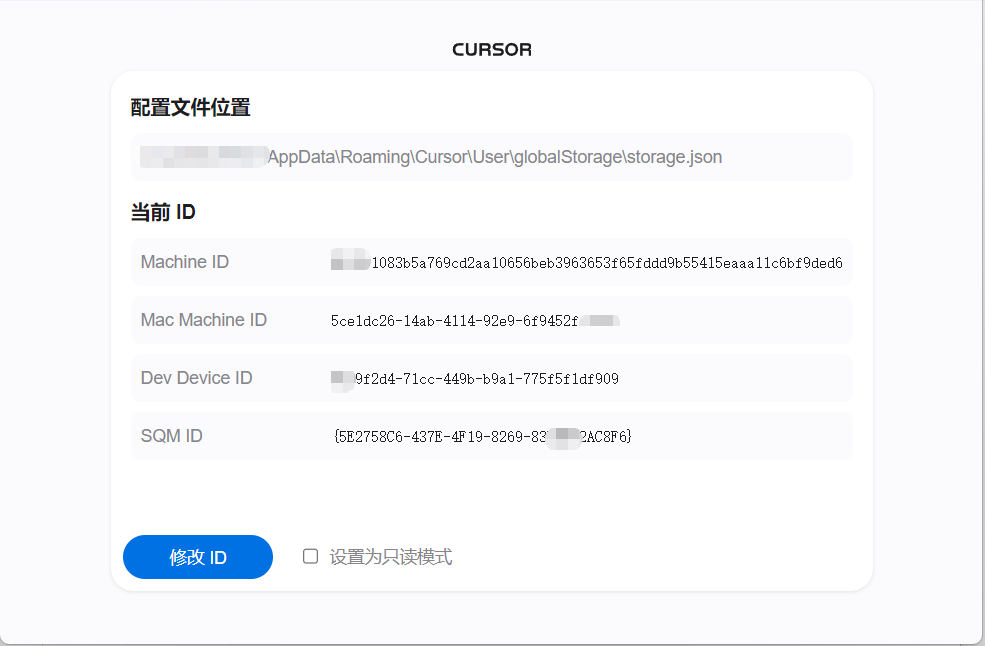
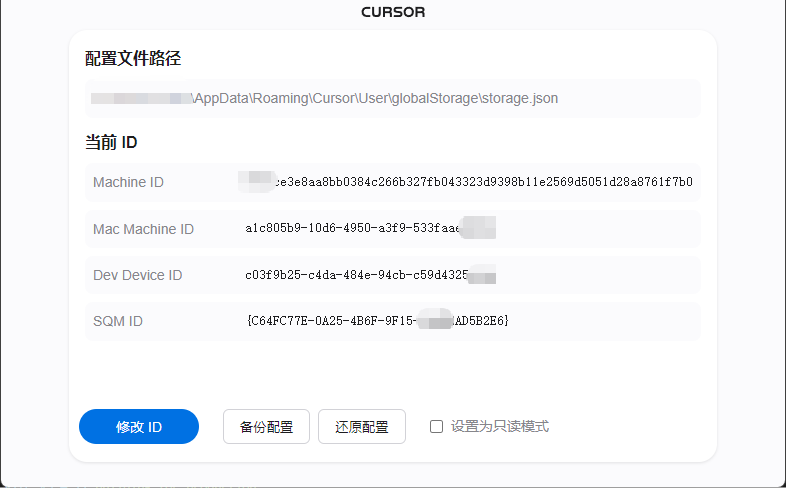
✨ feat: initialization

diff --git a/src/renderer/src/App.vue b/src/renderer/src/App.vue
@@ -1,5 +1,5 @@
 <script setup lang="ts">
-import { ref, watch } from 'vue'
+import { ref, watch, onMounted } from 'vue'
 import type { CurrentIds } from '@renderer/types'
 
 const configPath = ref('')
@@ -15,6 +15,7 @@ const message = ref('')
 const setReadOnly = ref(false)
 const messageTimer = ref<ReturnType<typeof setTimeout> | null>(null)
 const messageType = ref<'success' | 'error' | 'warning'>('success')
+const backupExists = ref(false)
 
 const showMessage = (msg: string, type: 'success' | 'error' | 'warning' = 'success') => {
   message.value = msg
@@ -101,6 +102,63 @@ const loadCurrentIds = async () => {
   }
 }
 
+const checkBackupExists = async () => {
+  try {
+    const result = await window.electron.ipcRenderer.invoke('check-backup-exists')
+    backupExists.value = result.exists
+  } catch (error) {
+    const err = error as Error
+    showMessage(err.message || '检查备份状态失败', 'error')
+  }
+}
+
+const backupStorage = async () => {
+  try {
+    const result = await window.electron.ipcRenderer.invoke('backup-storage')
+    if (result.success) {
+      showMessage('备份成功', 'success')
+      await checkBackupExists()
+    } else {
+      showMessage(result.error || '备份失败', 'error')
+    }
+  } catch (error) {
+    const err = error as Error
+    showMessage(err.message || '备份失败', 'error')
+  }
+}
+
+const restoreStorage = async () => {
+  if (!backupExists.value) {
+    showMessage('没有可用的备份', 'error')
+    return
+  }
+
+  try {
+    await checkFilePermission()
+    
+    if (setReadOnly.value) {
+      showMessage('文件为只读模式，请先取消只读设置', 'error')
+      return
+    }
+
+    const result = await window.electron.ipcRenderer.invoke('restore-storage')
+    if (result.success) {
+      showMessage('还原成功！请重启 Cursor 以使更改生效。', 'success')
+      await loadCurrentIds()
+    } else {
+      showMessage(result.error || '还原失败', 'error')
+    }
+  } catch (error) {
+    const err = error as Error
+    showMessage(err.message || '还原失败', 'error')
+  }
+}
+
+// 初始化时检查备份状态
+onMounted(async () => {
+  await checkBackupExists()
+})
+
 loadCurrentIds()
 </script>
 
@@ -152,6 +210,24 @@ loadCurrentIds()
         >
           {{ isLoading ? '修改中...' : '修改 ID' }}
         </button>
+        
+        <div class="backup-actions">
+          <button 
+            class="secondary-btn"
+            @click="backupStorage"
+            :disabled="isLoading || !currentIds.configPath"
+          >
+            备份配置
+          </button>
+          <button 
+            class="secondary-btn"
+            @click="restoreStorage"
+            :disabled="isLoading || setReadOnly || !backupExists"
+          >
+            还原配置
+          </button>
+        </div>
+        
         <label class="toggle-option">
           <input 
             type="checkbox" 
@@ -564,5 +640,30 @@ h2 {
     --scrollbar-thumb: #424244;
     --scrollbar-thumb-hover: #48484a;
   }
+}
+
+.backup-actions {
+  display: flex;
+  gap: 8px;
+  margin: 8px 0;
+}
+
+.secondary-btn {
+  padding: 8px 16px;
+  border-radius: 6px;
+  border: 1px solid var(--border-color);
+  background: var(--button-secondary-bg);
+  color: var(--text-primary);
+  cursor: pointer;
+  transition: all 0.2s;
+}
+
+.secondary-btn:hover:not(:disabled) {
+  background: var(--button-secondary-hover);
+}
+
+.secondary-btn:disabled {
+  opacity: 0.5;
+  cursor: not-allowed;
 }
 </style>

diff --git a/src/main/index.ts b/src/main/index.ts
@@ -1,9 +1,9 @@
 import { app, shell, BrowserWindow, ipcMain } from 'electron'
-import { join } from 'path'
+import { join, dirname } from 'path'
 import { electronApp, optimizer, is } from '@electron-toolkit/utils'
 import icon from '../../resources/icon.png?asset'
 import { homedir } from 'os'
-import { existsSync, readFileSync, writeFileSync, chmodSync, statSync } from 'fs'
+import { existsSync, readFileSync, writeFileSync, chmodSync, statSync, copyFileSync } from 'fs'
 import { platform } from 'os'
 import { StorageData, ModifyResult, CurrentIds } from './types'
 
@@ -169,6 +169,53 @@ app.whenReady().then(() => {
     }
   })
 
+  ipcMain.handle('backup-storage', async (): Promise<ModifyResult> => {
+    try {
+      const sourcePath = getStoragePath()
+      const backupPath = getBackupPath()
+      
+      if (!existsSync(sourcePath)) {
+        return { success: false, error: '配置文件不存在' }
+      }
+      
+      copyFileSync(sourcePath, backupPath)
+      return { success: true }
+    } catch (error) {
+      const err = error as Error
+      return { success: false, error: err.message || '备份失败' }
+    }
+  })
+
+  ipcMain.handle('restore-storage', async (): Promise<ModifyResult> => {
+    try {
+      const sourcePath = getBackupPath()
+      const targetPath = getStoragePath()
+      
+      if (!existsSync(sourcePath)) {
+        return { success: false, error: '备份文件不存在' }
+      }
+      
+      // 验证备份文件格式
+      try {
+        const content = readFileSync(sourcePath, 'utf8')
+        JSON.parse(content) // 验证 JSON 格式
+      } catch {
+        return { success: false, error: '备份文件格式错误' }
+      }
+      
+      copyFileSync(sourcePath, targetPath)
+      return { success: true }
+    } catch (error) {
+      const err = error as Error
+      return { success: false, error: err.message || '还原失败' }
+    }
+  })
+
+  ipcMain.handle('check-backup-exists', async (): Promise<{ exists: boolean }> => {
+    const backupPath = getBackupPath()
+    return { exists: existsSync(backupPath) }
+  })
+
   createWindow()
 
   app.on('activate', function () {
@@ -189,3 +236,9 @@ app.on('window-all-closed', () => {
 
 // In this file you can include the rest of your app"s specific main process
 // code. You can also put them in separate files and require them here.
+
+// 获取备份文件路径
+function getBackupPath(): string {
+  const storagePath = getStoragePath()
+  return join(dirname(storagePath), 'storage.json.backup')
+}

diff --git a/src/preload/index.ts b/src/preload/index.ts
@@ -1,5 +1,6 @@
 import { contextBridge, ipcRenderer } from 'electron'
 import { electronAPI } from '@electron-toolkit/preload'
+import { CurrentIds, ModifyResult } from '../main/types'
 
 // Custom APIs for renderer
 const api = {
@@ -22,4 +23,16 @@ if (process.contextIsolated) {
   window.electron = electronAPI
   // @ts-ignore (define in dts)
   window.api = api
+}
+
+export type ElectronAPI = {
+  ipcRenderer: {
+    invoke(channel: 'get-current-ids'): Promise<CurrentIds>
+    invoke(channel: 'modify-ids'): Promise<ModifyResult>
+    invoke(channel: 'set-file-permission', isReadOnly: boolean): Promise<ModifyResult>
+    invoke(channel: 'check-file-permission'): Promise<{ isReadOnly: boolean }>
+    invoke(channel: 'backup-storage'): Promise<ModifyResult>
+    invoke(channel: 'restore-storage'): Promise<ModifyResult>
+    invoke(channel: 'check-backup-exists'): Promise<{ exists: boolean }>
+  }
 }

diff --git a/src/renderer/src/types/electron.d.ts b/src/renderer/src/types/electron.d.ts
@@ -1,10 +1,14 @@
 import type { CurrentIds } from '@renderer/types'
+import type { ModifyResult } from '../../main/types'
 
 interface IpcRenderer {
   invoke(channel: 'check-file-permission'): Promise<{ isReadOnly: boolean }>
-  invoke(channel: 'modify-ids'): Promise<{ success: boolean; error?: string }>
-  invoke(channel: 'set-file-permission', value: boolean): Promise<{ success: boolean; error?: string }>
+  invoke(channel: 'modify-ids'): Promise<ModifyResult>
+  invoke(channel: 'set-file-permission', value: boolean): Promise<ModifyResult>
   invoke(channel: 'get-current-ids'): Promise<CurrentIds>
+  invoke(channel: 'backup-storage'): Promise<ModifyResult>
+  invoke(channel: 'restore-storage'): Promise<ModifyResult>
+  invoke(channel: 'check-backup-exists'): Promise<{ exists: boolean }>
 }
 
 declare global {

diff --git a/CHANGELOG.md b/CHANGELOG.md
@@ -5,10 +5,11 @@ All notable changes to this project will be documented in this file.
 The format is based on [Keep a Changelog](https://keepachangelog.com/en/1.0.0/),
 and this project adheres to [Semantic Versioning](https://semver.org/spec/v2.0.0.html).
 
-## [1.0.1-alpha] - 2024-12-26
+## [1.0.1-alpha1] - 2024-12-26
 
 ### Added
 - 支持修改 Cursor 的相关机器码
+- 增加备份和还原功能
 - 支持设置配置文件只读模式
 - 自适应深色模式
 - 跨平台支持 (Windows, macOS, Linux)
